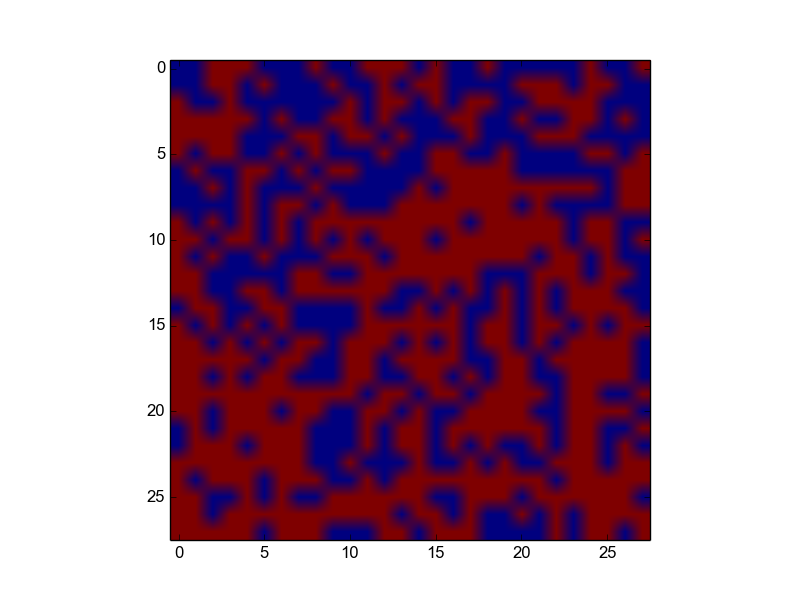
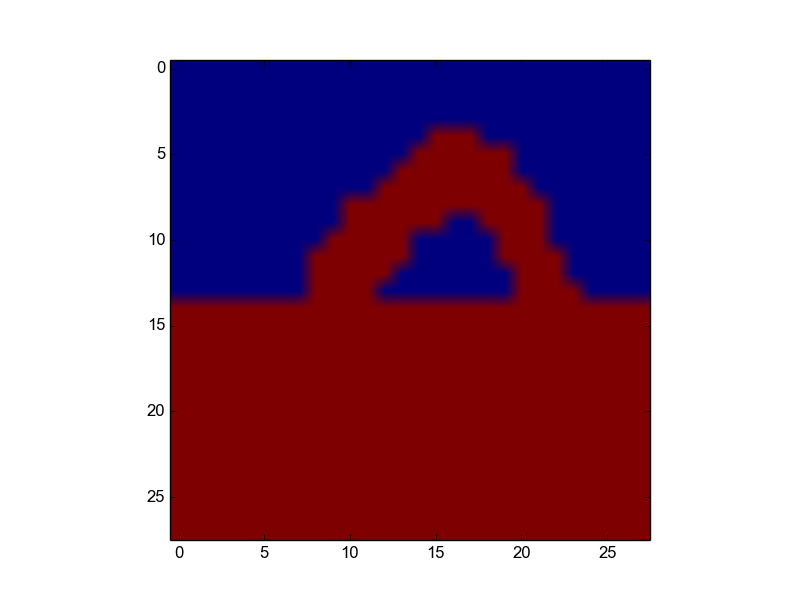
finished with networkx implementation

Changed region(s): [[0.1875, 0.09, 0.8125, 0.9]]

diff --git a/bm.py b/bm.py
@@ -78,7 +78,7 @@ def pbm_search(net, seeds, r):
     marks = collections.defaultdict(int)
     vals = collections.defaultdict(int)
     nodes = dict(net.nodes(data=True))
-    impossible = {} # add the seeds here?
+    impossible = dict(zip(seeds, itertools.repeat(True)))
     unused = seeds[:]
     used = []
     #t1 = 0
@@ -108,7 +108,7 @@ def pbm_search(net, seeds, r):
         #set it here, omae
     return used
 
-def pbm_learn(net_d, net_m, epsilon=0.01):
+def pbm_learn(net_d, net_m, epsilon=100):
     #d = data, m = model
     states_d = nx.get_node_attributes(net_d, "state")
     states_m = nx.get_node_attributes(net_m, "state")
@@ -131,13 +131,20 @@ def running_sum(net):
         else:
             running_neg += 1
 
+def redo_arr(arr):
+    ravelled = arr.flat
+    for x in xrange(arr.size):
+        if ravelled[x] == 0:
+            ravelled[x] = -1
+    return arr
+
 def create_word_graph(filename="corpus.txt"):
     net = nx.Graph()
     with open(filename, "r") as corpus_file:
         words = corpus_file.read().split()
         washed, word_dict = wash(words)
         for first, second in zip(washed, washed[1:]):
-            net.add_edge(first, second, weight=npr.normal())
+            net.add_edge(first, second, weight=npr.normal() * 0.05)
     for node, node_data in net.nodes_iter(data=True):
         node_data["state"] = flip()
     return net
@@ -161,9 +168,11 @@ def completion_task(net, data_head, len_data):
     @returns the whole 1d data array, completed
     """
     data_head = np.array(data_head)
-    seeds = get_seeds(net, len_data)
+    #seeds = get_seeds(net, len_data)
+    seeds = get_seeds(net, data_head.shape[0])
     len_tail = len_data - data_head.shape[0]
-    genned_tail = np.rint(npr.random(len_tail))
+    #genned_tail = np.ones(len_tail)
+    genned_tail = redo_arr(np.rint(npr.random(len_tail)))
     total_data = np.hstack((data_head, genned_tail))
     net2 = pbm_clamp(net.copy(), total_data)
     pbm_search(net2, seeds, 0.75)
@@ -193,16 +202,35 @@ def make_mnist_sample():
     sample, completion = train_zeros[:500], train_zeros[1000]
     return sample, completion
 
-if __name__ == "__main__":
+def mnist_test():
     sample, completion = make_mnist_sample()
+    completion = sample[0]
     net = create_word_graph()
-    for x in xrange(500):
+    for x in xrange(2):
         print "x: ", x
-        net = learn_step(net, np.rint(sample[x]))
-    print np.array(get_tops(net, 784))
+        net = learn_step(net, redo_arr(np.rint(sample[0])))
     print "============"
-    completion = np.rint(completion[:392])
+    completion = redo_arr(np.rint(completion[:392]))
     res2 = completion_task(net, completion, 784)
     res2 = res2.reshape(28, 28)
+    print res2
     plt.imshow(res2)
     plt.savefig("res2")
+
+def small_vec_test():
+    net = create_word_graph()
+    data = [-1, 1, -1, 1, 1, -1, -1, 1] * 98
+    print np.array(get_tops(net, 784))
+    print "============"
+    for x in xrange(3):
+        print "x: ", x
+        net = learn_step(net, data)
+    data2 = [-1, 1, -1, 1, 1, -1, -1, 1] * 49
+    res2 = completion_task(net, data2, 784)
+    res2 = res2.reshape(98, 8)
+    print res2
+    plt.imshow(res2)
+    plt.savefig("res2_small")
+
+if __name__ == "__main__":
+    small_vec_test()
